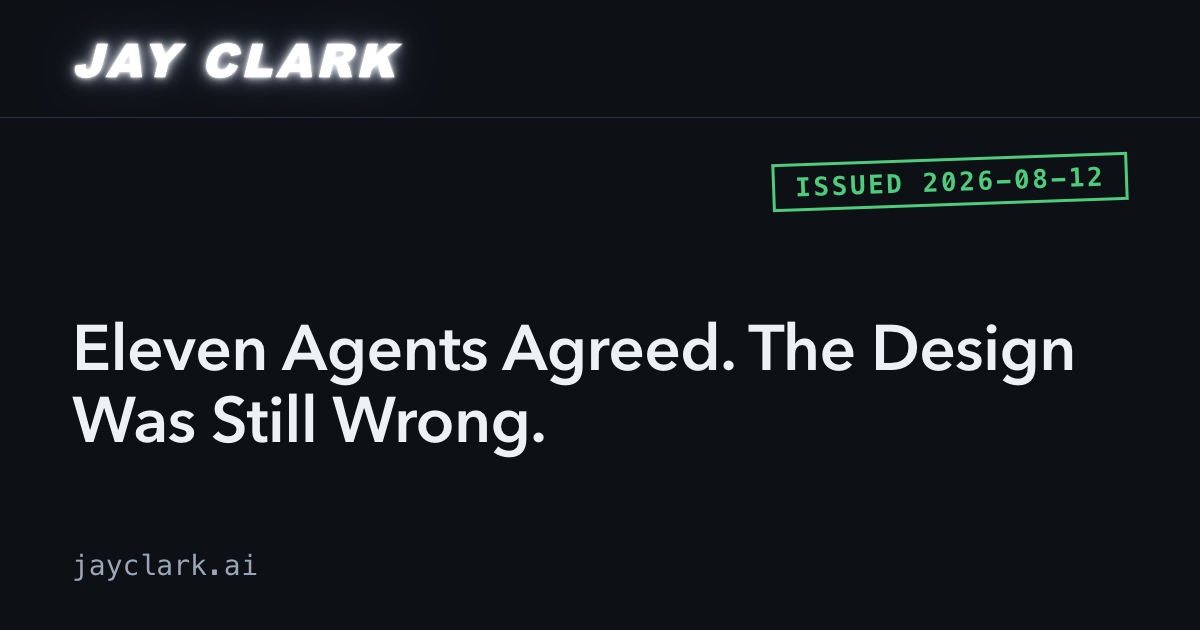
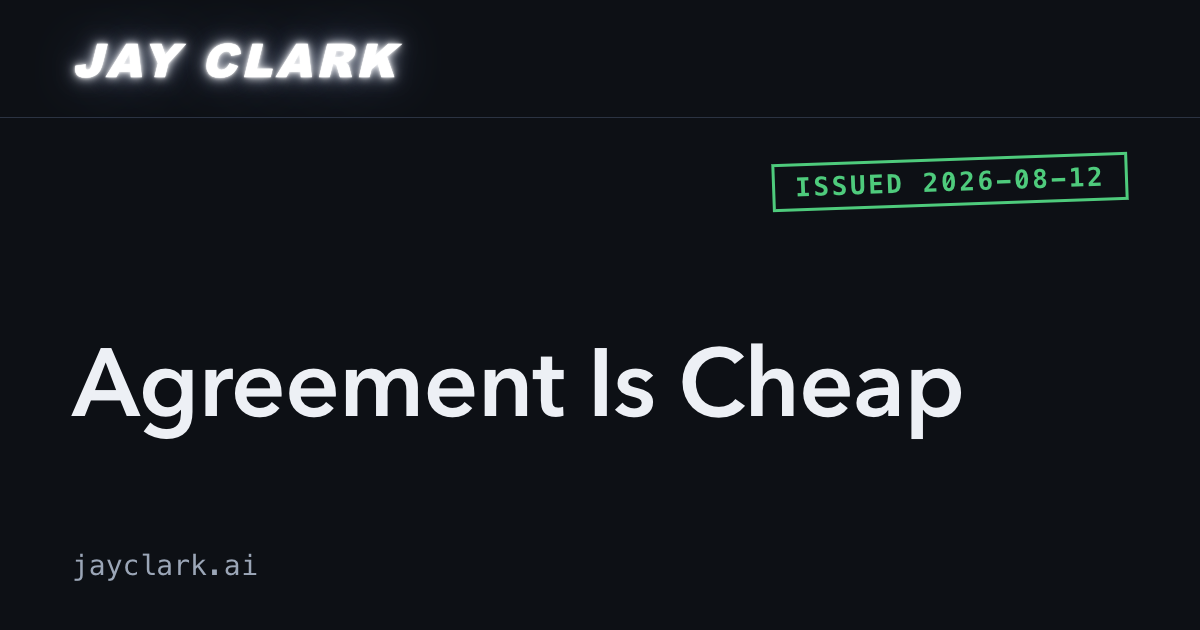
Retitle the second essay to Agreement Is Cheap

Changed region(s): [[0.0617, 0.5127, 0.8942, 0.7238]]

diff --git a/src/essays/eleven-agents-agreed.md b/src/essays/eleven-agents-agreed.md
@@ -1,13 +1,13 @@
 ---
-title: Eleven Agents Agreed. The Design Was Still Wrong.
-description: A year of receipts on why reviewer count exaggerates assurance, and what actually catches the mistakes AI-generated work makes.
+title: Agreement Is Cheap
+description: Eleven AI reviewers endorsed the design's worst idea. A year of receipts on why reviewer count exaggerates assurance, and what actually catches the mistakes AI-generated work makes.
 date: 2026-08-12
 ---
 
-# Eleven Agents Agreed. The Design Was Still Wrong.
+# Agreement Is Cheap
 
-*The twelfth reviewer came from a different lab and killed the design in one pass. Two of its
-own four arguments were wrong too. A field report on correlated review, from a year-long
+*Eleven AI reviewers examined a design and endorsed its worst idea. The twelfth came from a
+different lab and killed it in one pass. Two of its own four arguments were wrong too. A field report on correlated review, from a year-long
 project where every review pass, verdict, and post-mortem was logged with receipts.*
 
 ---
